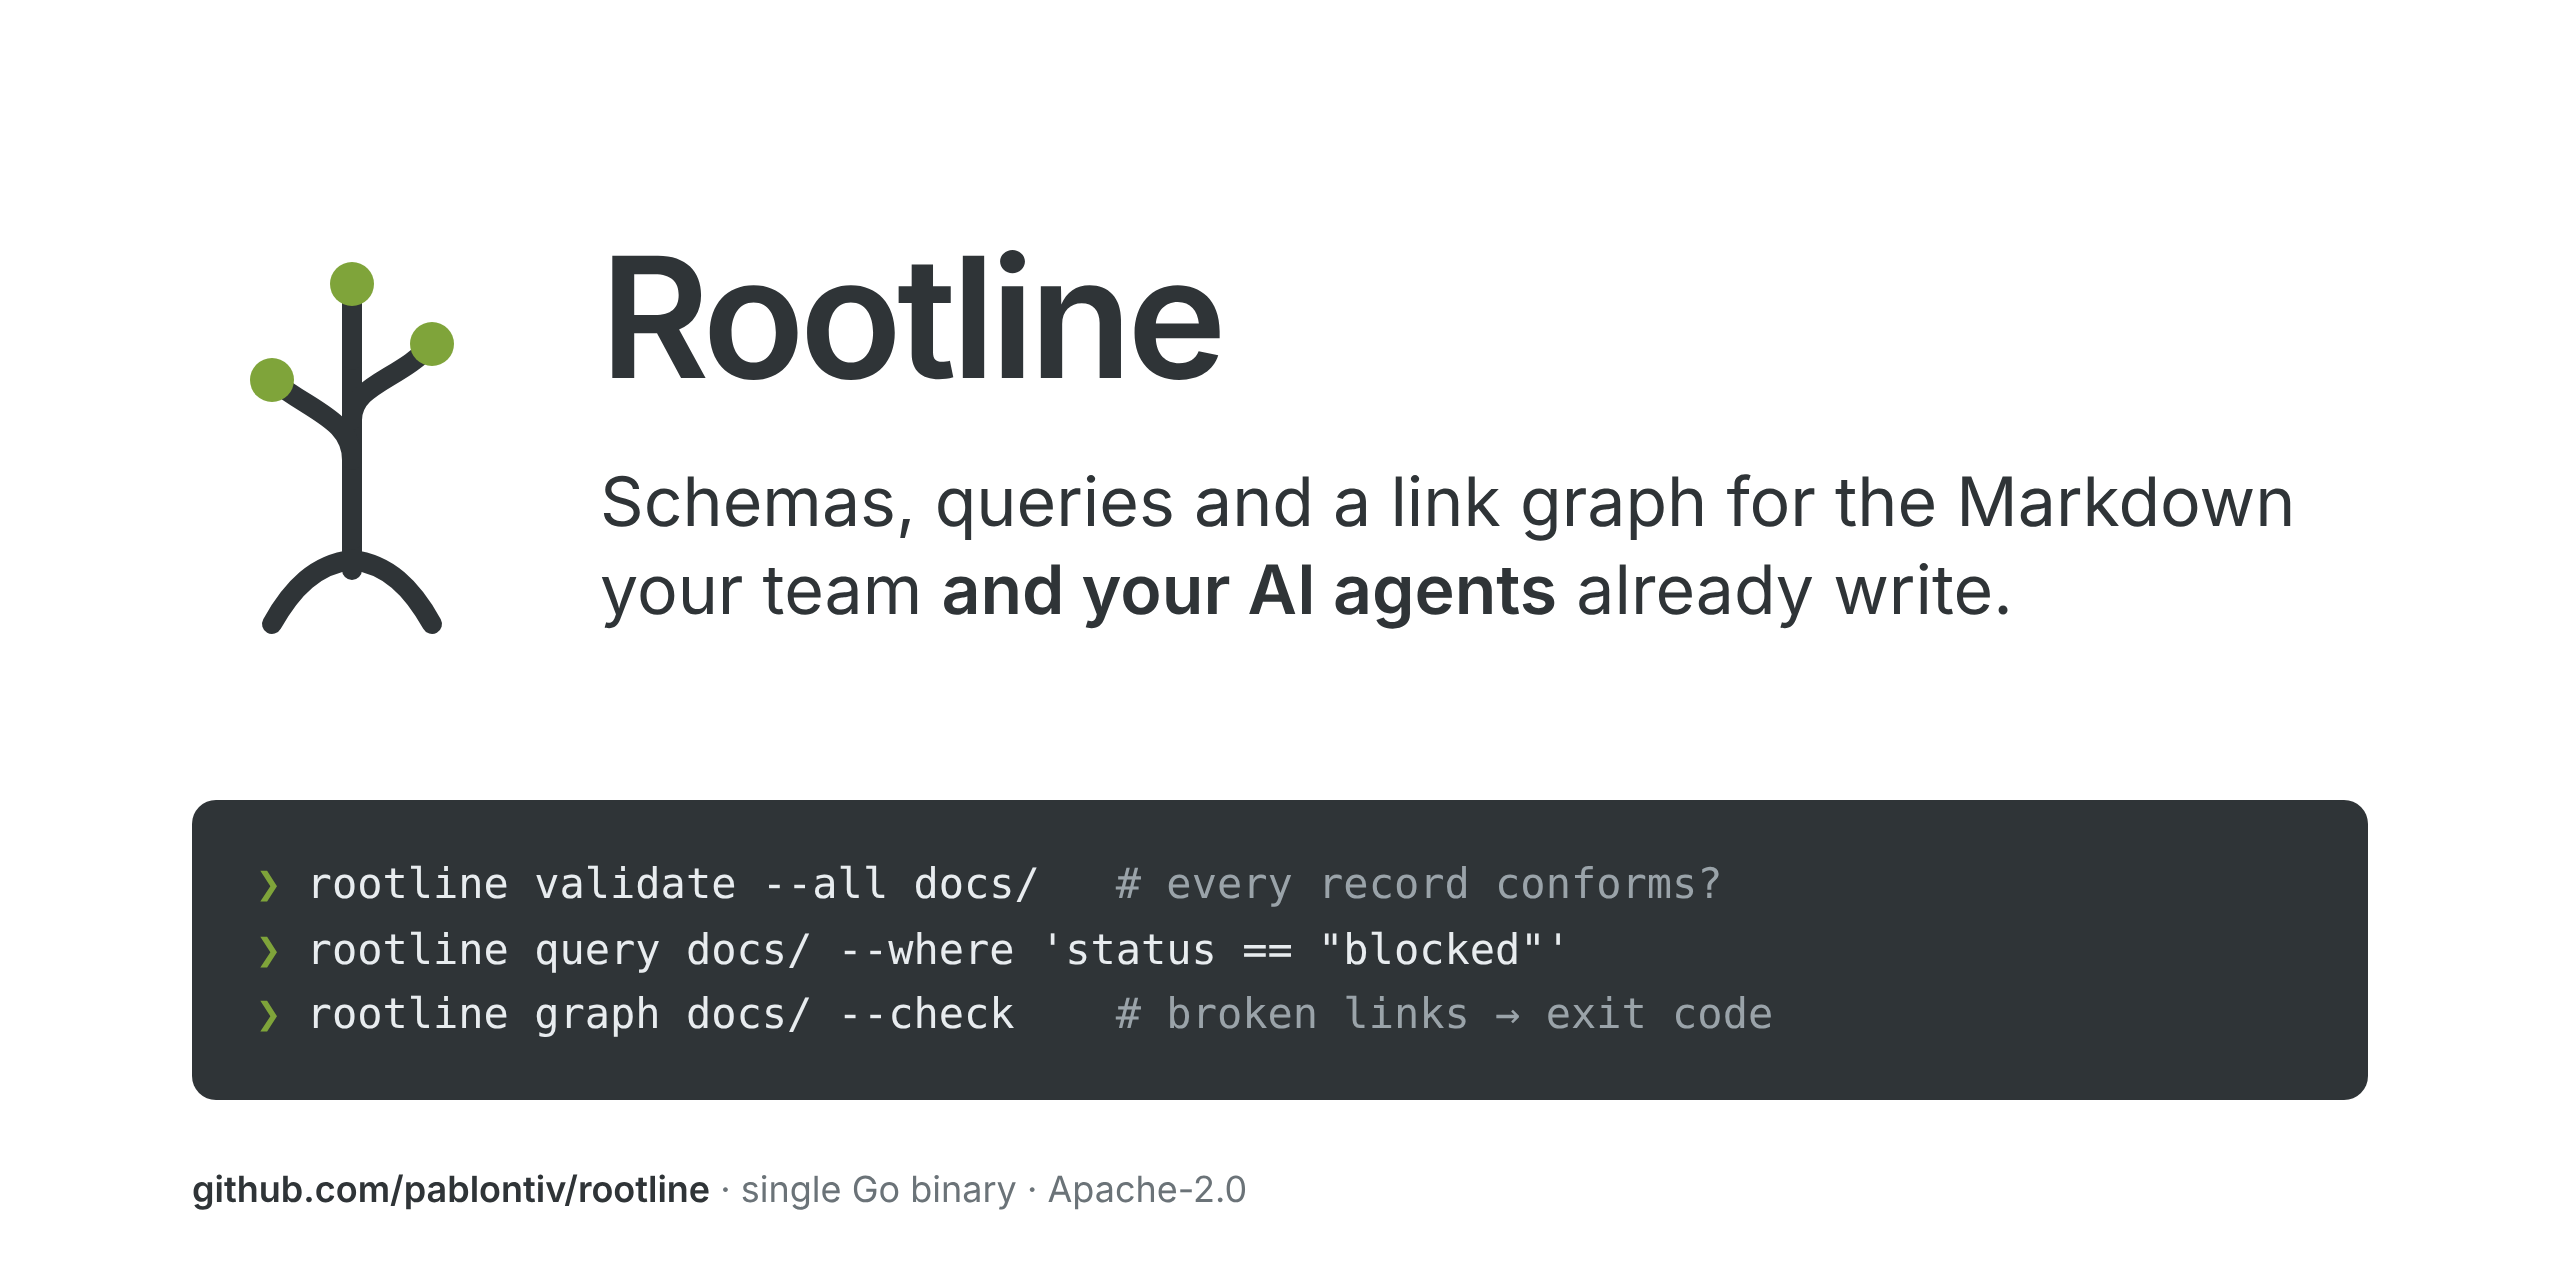
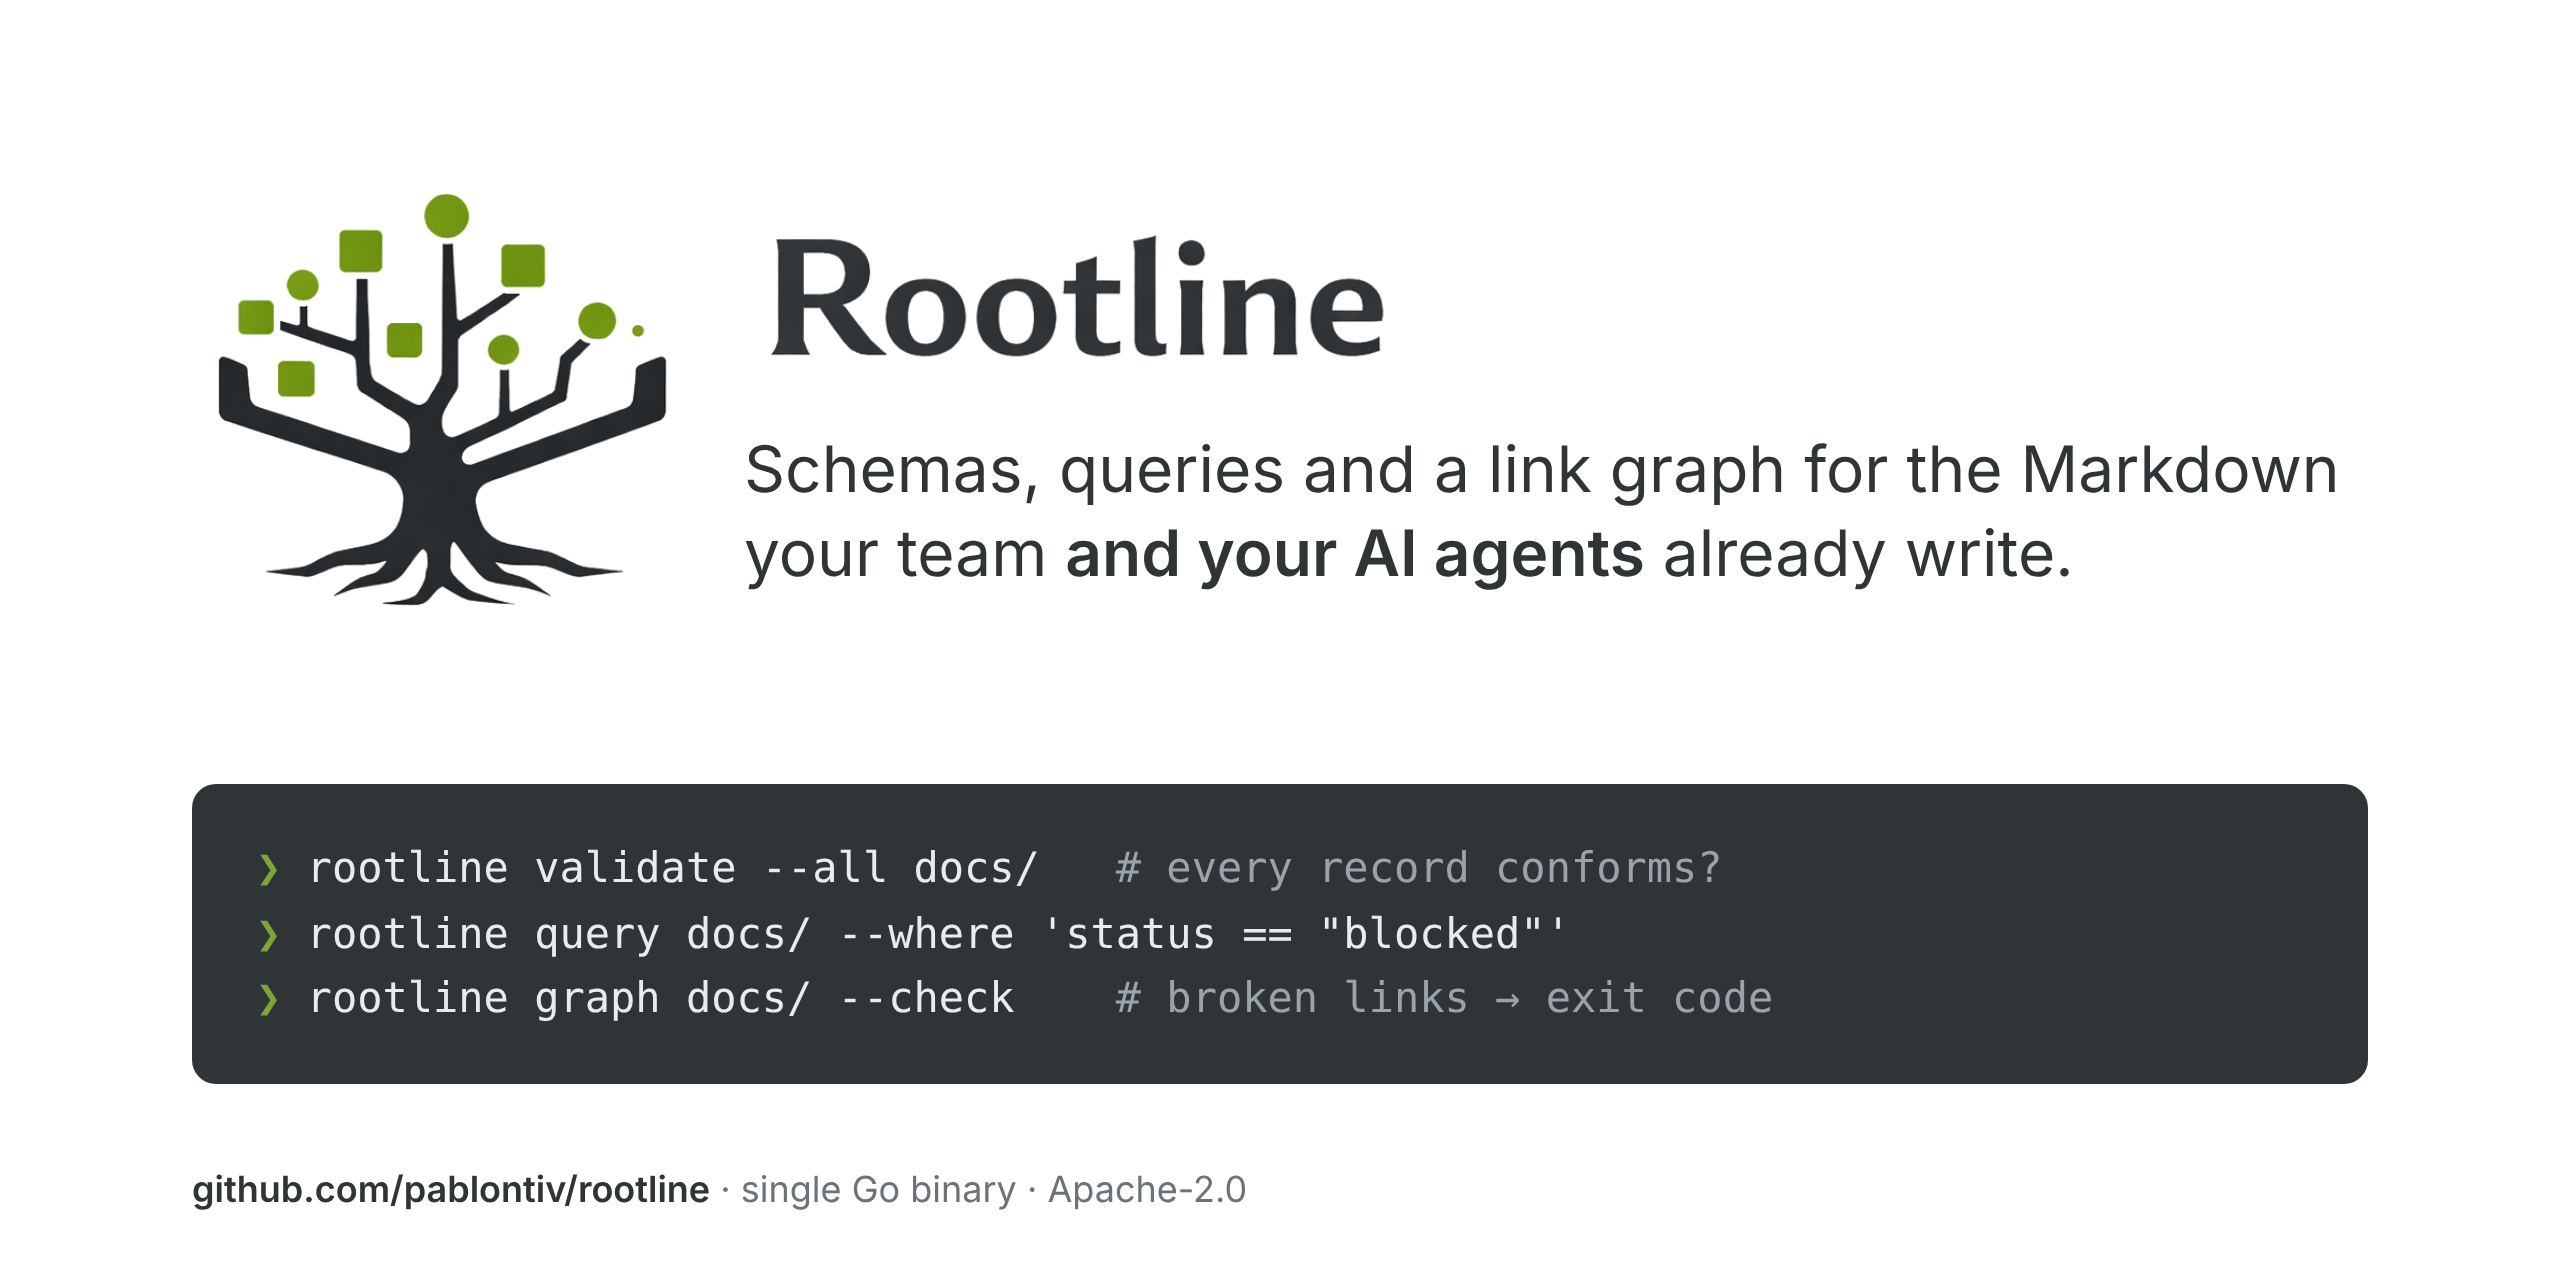
docs(readme): use the real Rootline isologo, light/dark aware
Replace the placeholder mark with the actual logo (transparent PNG cut
from the master raster): colour lockup for light theme, white monochrome
for dark theme via <picture prefers-color-scheme>. Social preview and the
demo GIF title card now carry the real mark. docs/identity.md lists the
asset files.

Claude-Session: https://claude.ai/code/session_01Hok5xZRWYaEA7ZREYtjVCN

diff --git a/docs/identity.md b/docs/identity.md
@@ -85,3 +85,16 @@ No se permiten transparencias, sombras ni degradados.
 - Simplicidad antes que ornamento
 - Estructura antes que resultado
 - Claridad antes que estilo
+
+---
+
+## Archivos
+
+| Archivo | Uso |
+|---|---|
+| `docs/assets/logo.png` | Lockup a color (isologo + logotipo), fondo transparente, para fondos claros |
+| `docs/assets/logo-light.png` | Lockup monocromo claro, para fondos oscuros (README en tema dark) |
+| `docs/assets/mark.png` / `mark-light.png` | Solo el isologo, mismas dos variantes |
+| `docs/assets/social-preview.png` | 2560×1280, imagen social del repositorio en GitHub |
+
+Los PNG son recortes del original rasterizado; si existe el vector, debe sustituirlos.

diff --git a/README.md b/README.md
@@ -1,3 +1,10 @@
+<p align="center">
+  <picture>
+    <source media="(prefers-color-scheme: dark)" srcset="docs/assets/logo-light.png">
+    <img alt="Rootline" src="docs/assets/logo.png" width="260">
+  </picture>
+</p>
+
 # Rootline
 
 [![CI](https://github.com/pablontiv/rootline/actions/workflows/ci.yml/badge.svg)](https://github.com/pablontiv/rootline/actions/workflows/ci.yml)
